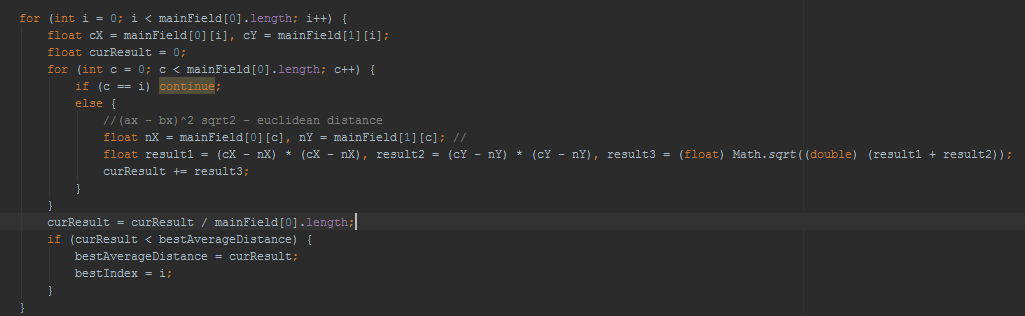
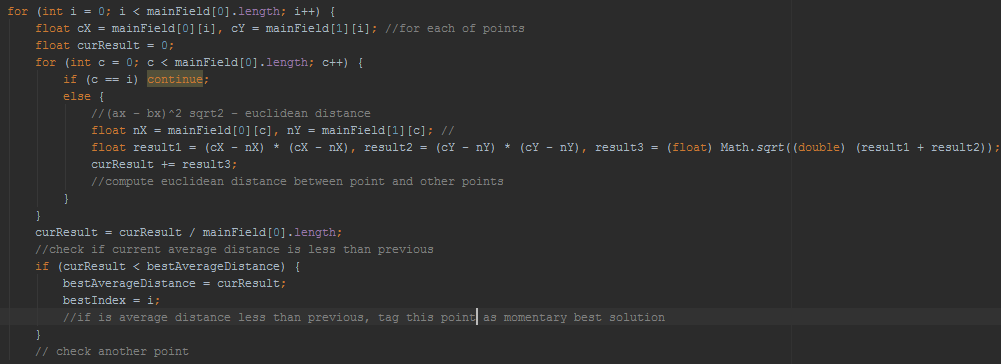
added comments

Changed region(s): [[0.0, 0.0, 1.0, 0.5696], [0.031, 0.6266, 0.6813, 0.8829], [0.031, 0.9114, 0.1858, 0.9968]]

diff --git a/src/GiveRandomNumbers.java b/src/GiveRandomNumbers.java
@@ -18,7 +18,7 @@ public class GiveRandomNumbers {
     }
 
     public static void deleteFile(){
-        
+
     }
     public static float[] createRandomField(int min, int max) {
         float[] field = new float[capacity];
@@ -217,7 +217,7 @@ public class GiveRandomNumbers {
 
 
         for (int i = 0; i < mainField[0].length; i++) {
-            float cX = mainField[0][i], cY = mainField[1][i];
+            float cX = mainField[0][i], cY = mainField[1][i]; //for each of points
             float curResult = 0;
             for (int c = 0; c < mainField[0].length; c++) {
                 if (c == i) continue;
@@ -226,13 +226,17 @@ public class GiveRandomNumbers {
                     float nX = mainField[0][c], nY = mainField[1][c]; //
                     float result1 = (cX - nX) * (cX - nX), result2 = (cY - nY) * (cY - nY), result3 = (float) Math.sqrt((double) (result1 + result2));
                     curResult += result3;
+                    //compute euclidean distance between point and other points
                 }
             }
             curResult = curResult / mainField[0].length;
+            //check if current average distance is less than previous
             if (curResult < bestAverageDistance) {
                 bestAverageDistance = curResult;
                 bestIndex = i;
+                //if is average distance less than previous, tag this point as momentary best solution
             }
+            // check another point
         }
         float[] finalField = new float[2];
         finalField[0] = mainField[0][bestIndex];
